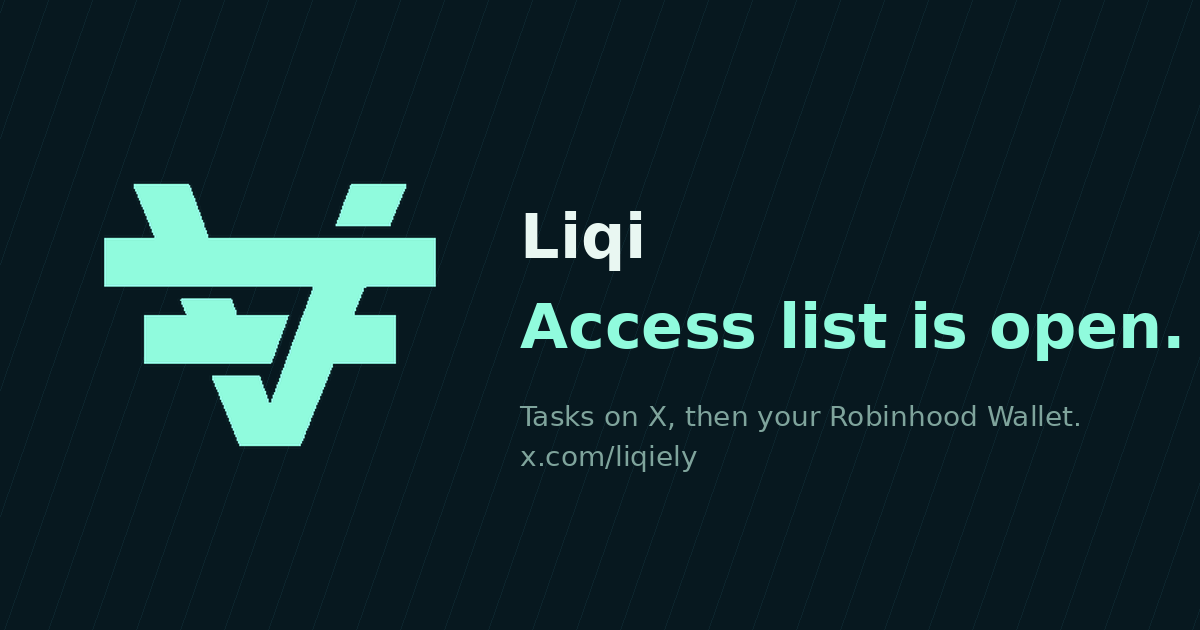
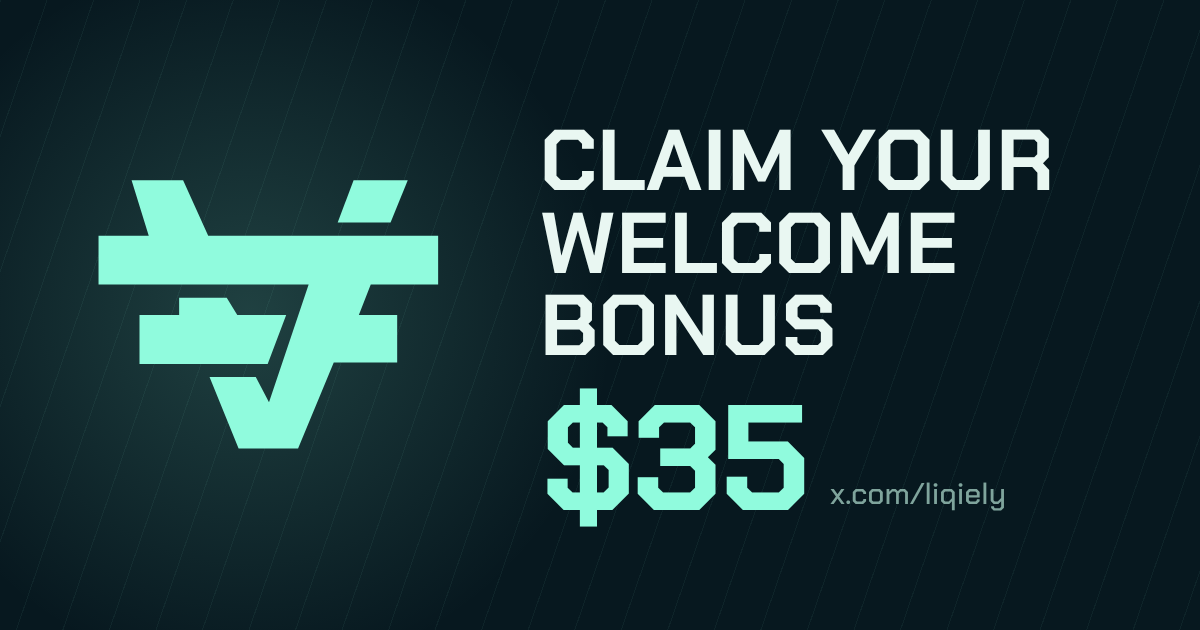
New share card at a new URL so X stops serving the cached old image
Claude-Session: https://claude.ai/code/session_01KSJBVWtGCC2CAthuooqVGA

diff --git a/index.html b/index.html
@@ -21,12 +21,14 @@
 <meta property="og:url" content="https://www.liqiely.xyz/">
 <meta property="og:title" content="Liqi — Claim your welcome bonus">
 <meta property="og:description" content="Finish the tasks on X, add your Robinhood Wallet address, and your $35 welcome bonus is reserved. Payouts go live soon.">
-<meta property="og:image" content="https://www.liqiely.xyz/assets/og-image.png">
+<meta property="og:image" content="https://www.liqiely.xyz/assets/card-v2.png">
+<meta property="og:image:width" content="1200">
+<meta property="og:image:height" content="630">
 <meta name="twitter:card" content="summary_large_image">
 <meta name="twitter:site" content="@liqiely">
 <meta name="twitter:title" content="Liqi — Claim your welcome bonus">
 <meta name="twitter:description" content="Finish the tasks on X, add your Robinhood Wallet address, and your $35 welcome bonus is reserved. Payouts go live soon.">
-<meta name="twitter:image" content="https://www.liqiely.xyz/assets/og-image.png">
+<meta name="twitter:image" content="https://www.liqiely.xyz/assets/card-v2.png">
 
 <link rel="preconnect" href="https://fonts.googleapis.com">
 <link rel="preconnect" href="https://fonts.gstatic.com" crossorigin>
